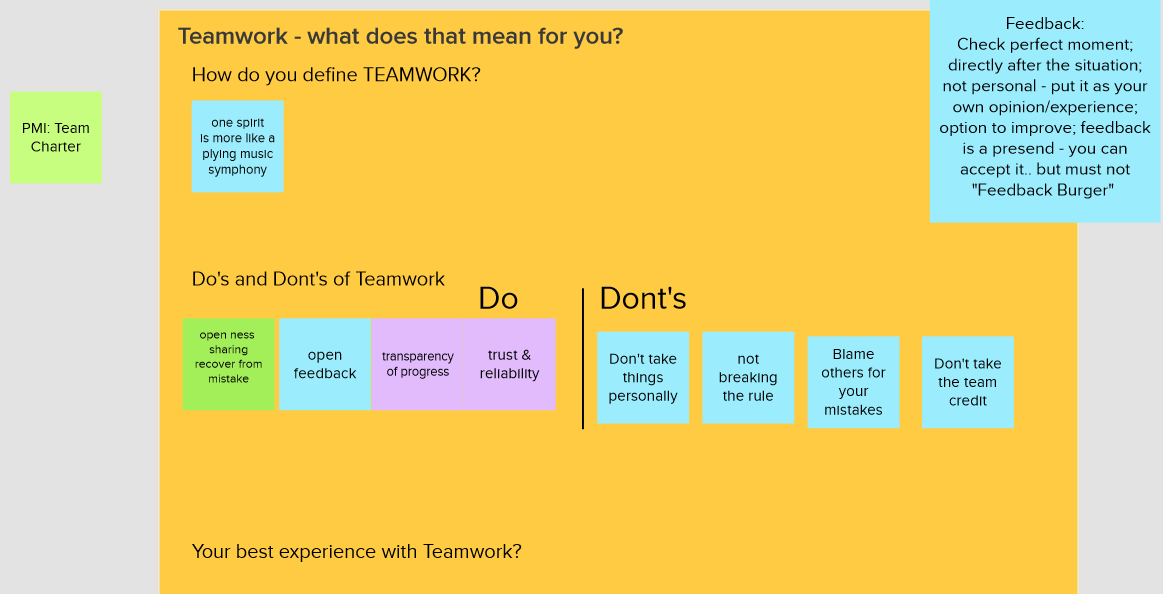
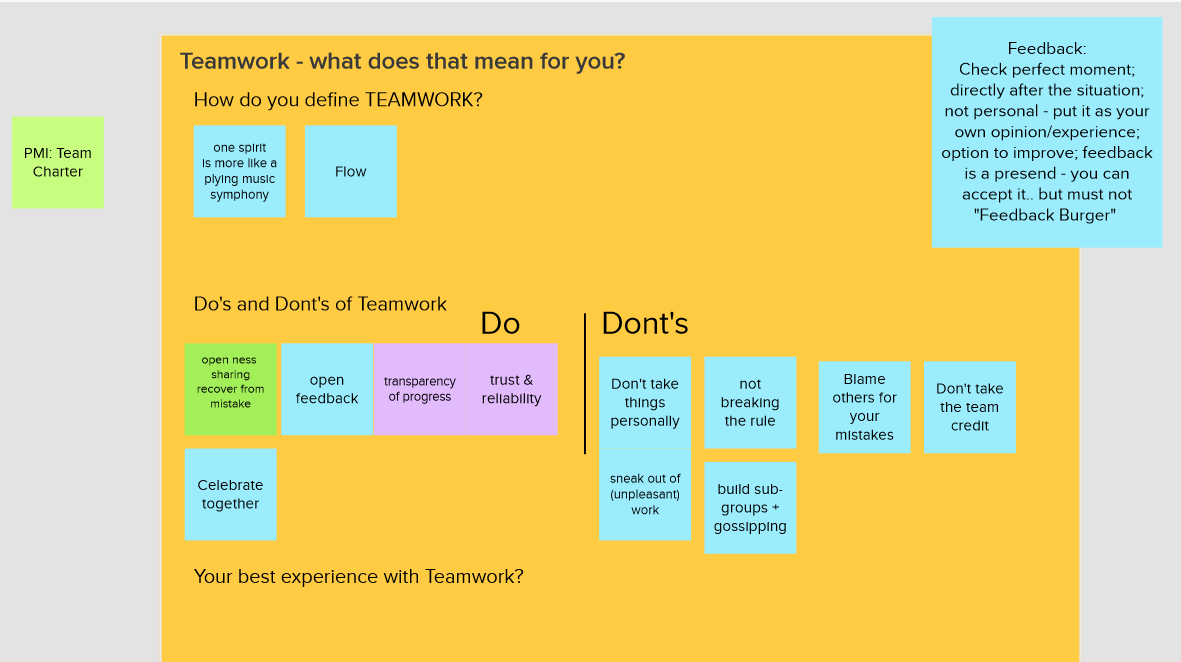
Project management & team leadership: continued

diff --git a/BeenThereSeenThat/20210626_ProjectManagementLeadershipAndTeamDevelopment/README.md b/BeenThereSeenThat/20210626_ProjectManagementLeadershipAndTeamDevelopment/README.md
@@ -127,8 +127,21 @@ Motivation: official term
 * [todo] marshal rosenberg: nonviolent communication
 * feedback should not target the person; separate the personality from the task; mention positive and negative things
 [task on mural]:
-  * ![](20.png)
+* ![](20.png)
 * icebreaking session; let people flow, accept more
 * track the idea of the current state
+
+## Belbin's 9 Team roles:
+* important to have all nine roles in the team
+![](21.png)
+![](22.png)
+## 9 Tips for better teamwork
+![](23.png)
+## basic parameters for successful team work
+* you should come in when the team staffing is still happening
+## non violent communication
+* giraffe or wolf way?
+## how to communicative with non-violent way? [task]
+![](24.png)
 
 
